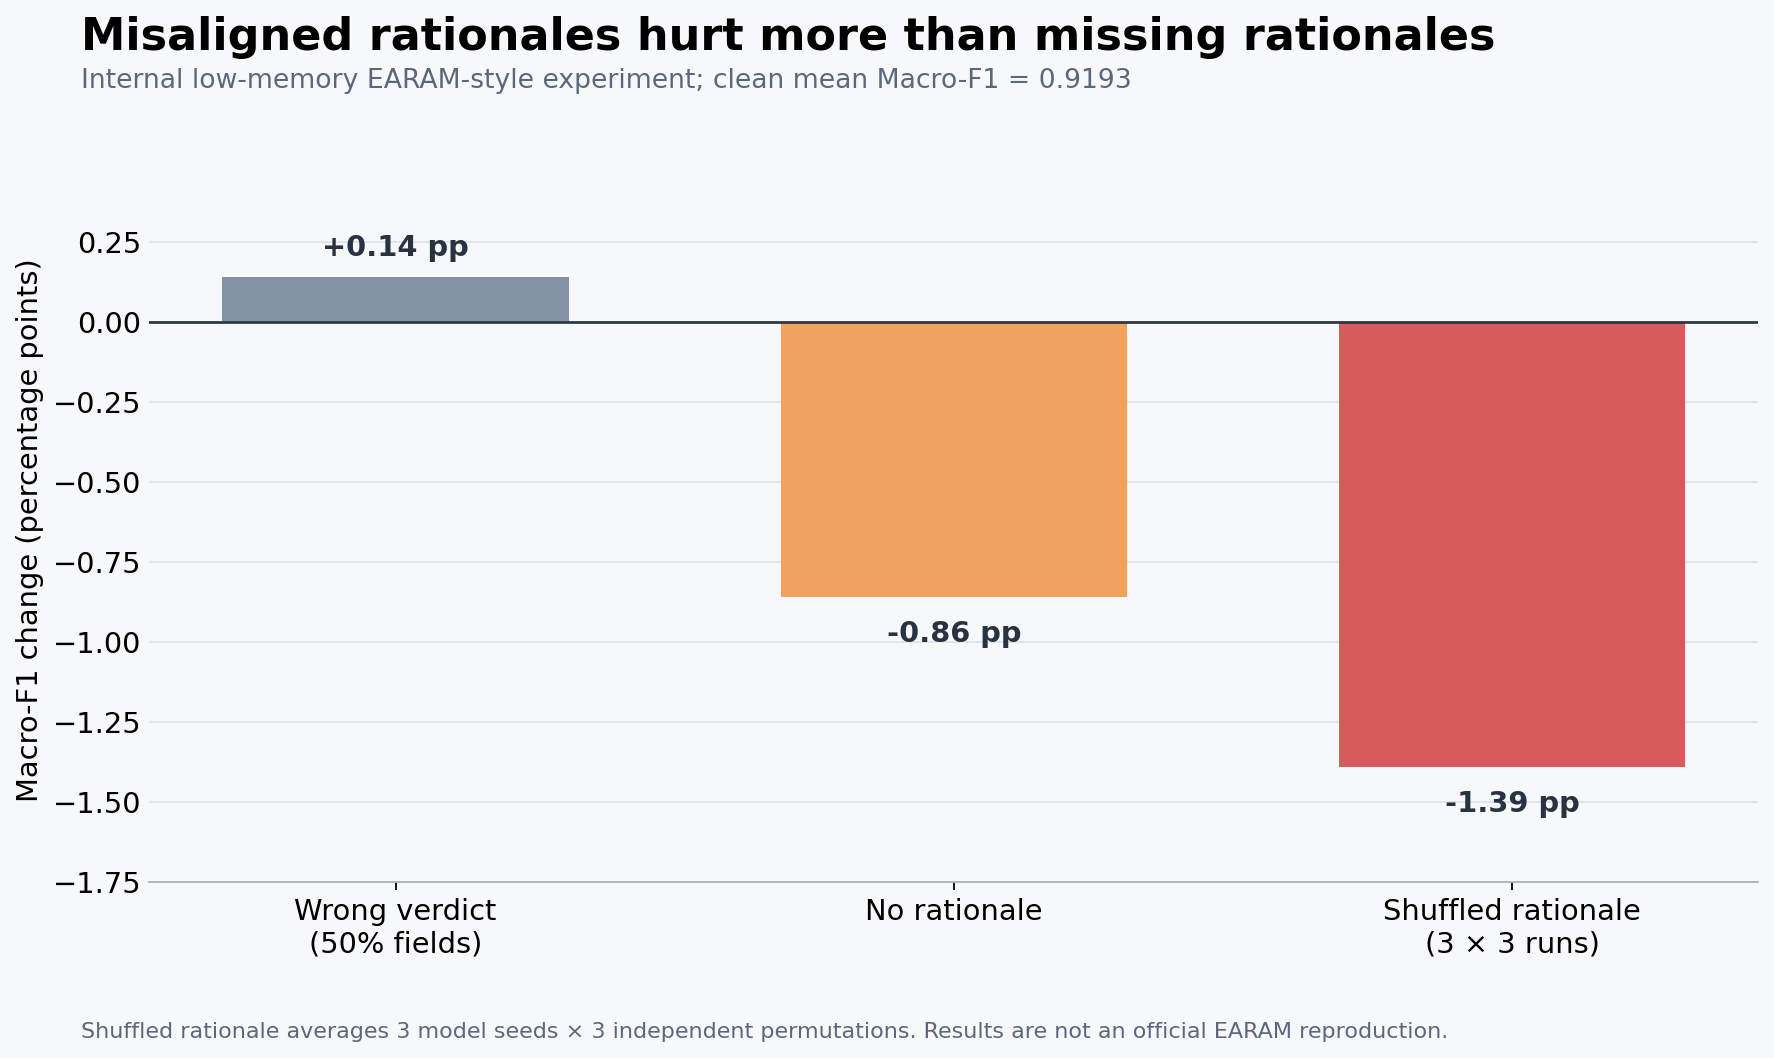
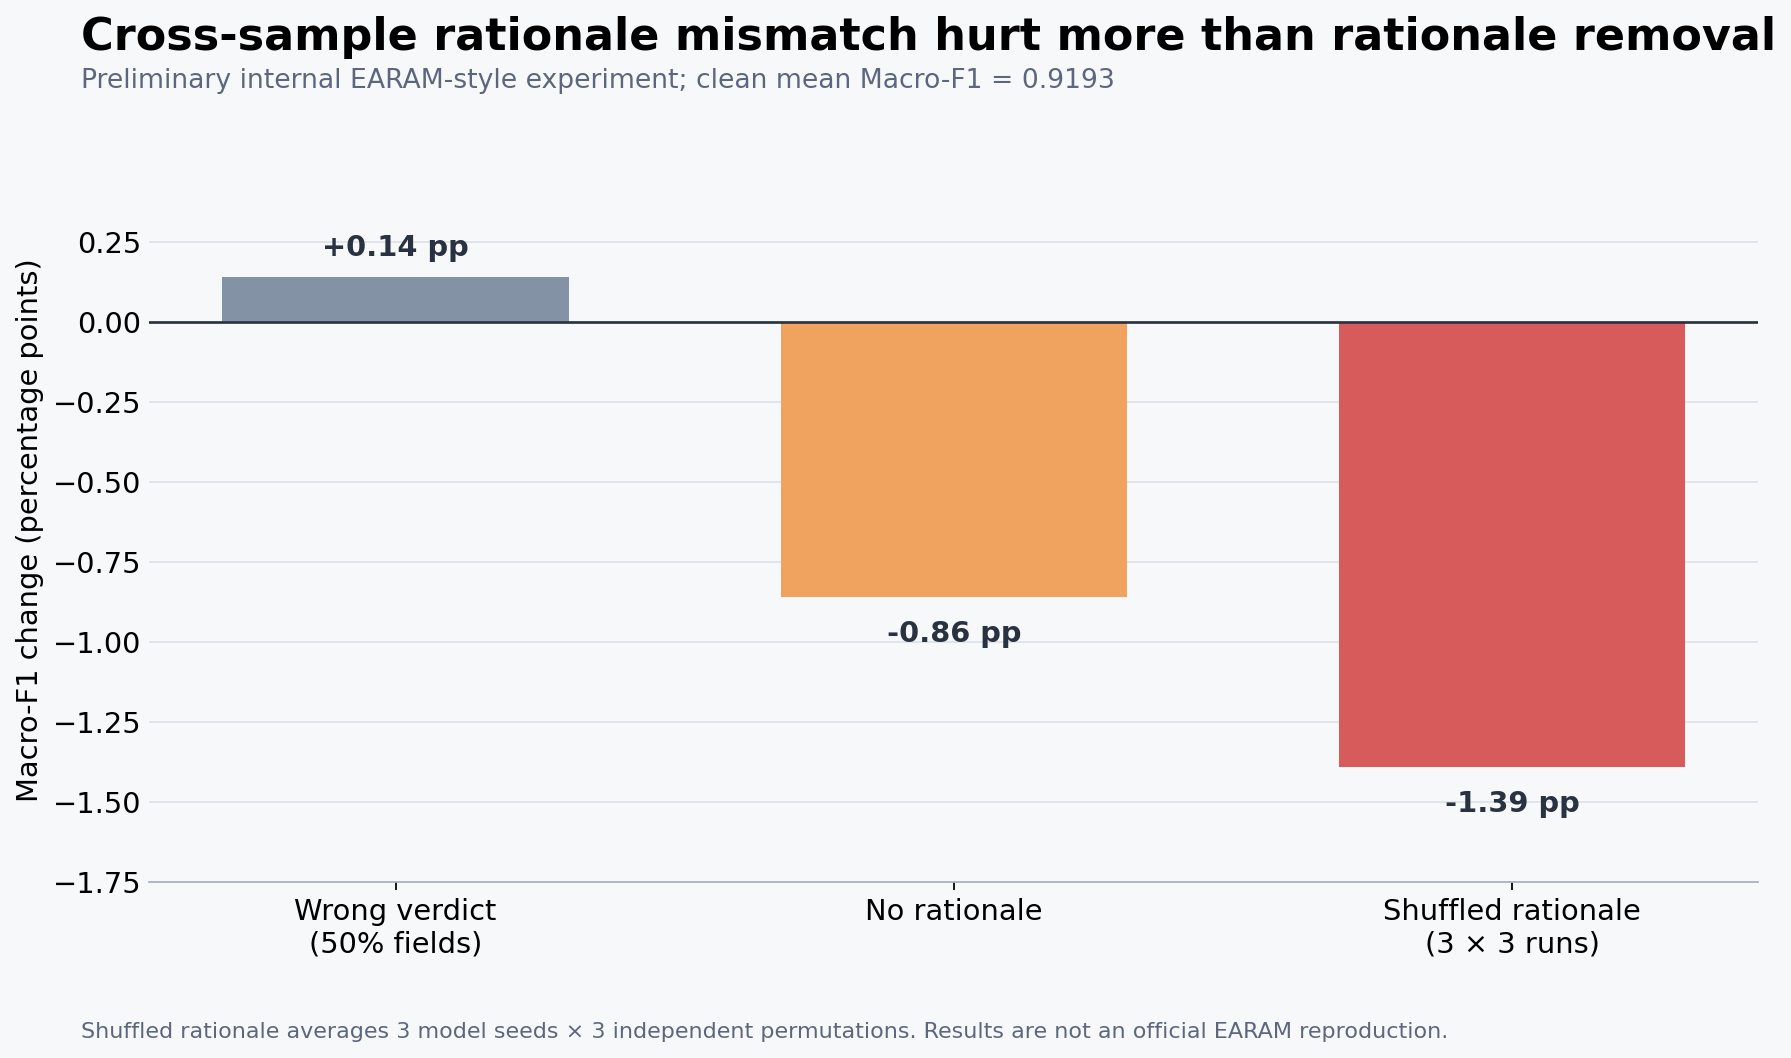
Sharpen pilot claims and document result provenance

diff --git a/scripts/generate_results_figure.py b/scripts/generate_results_figure.py
@@ -2,13 +2,24 @@
 """Generate the presentation figure for the internal rationale stress test."""
 
 from pathlib import Path
+import csv
 
 import matplotlib.pyplot as plt
 
 
 def main() -> None:
-    labels = ["Wrong verdict\n(50% fields)", "No rationale", "Shuffled rationale\n(3 × 3 runs)"]
-    changes = [0.14, -0.86, -1.39]
+    root = Path(__file__).resolve().parents[1]
+    summary = root / "docs" / "results_summary.csv"
+    with summary.open(encoding="utf-8", newline="") as handle:
+        rows = {row["condition"]: row for row in csv.DictReader(handle)}
+
+    conditions = [
+        ("Prefix oracle verdict flip 50%", "Wrong verdict\n(50% fields)"),
+        ("No rationale", "No rationale"),
+        ("Shuffled rationale 100%", "Shuffled rationale\n(3 × 3 runs)"),
+    ]
+    labels = [label for _, label in conditions]
+    changes = [100 * float(rows[name]["delta_from_clean"]) for name, _ in conditions]
     colors = ["#8492a6", "#f0a35e", "#d85b5b"]
 
     plt.rcParams.update({"font.family": "DejaVu Sans", "font.size": 13})
@@ -25,14 +36,14 @@ def main() -> None:
     fig.text(
         0.09,
         0.94,
-        "Misaligned rationales hurt more than missing rationales",
+        "Cross-sample rationale mismatch hurt more than rationale removal",
         weight="bold",
         fontsize=20,
     )
     fig.text(
         0.09,
         0.905,
-        "Internal low-memory EARAM-style experiment; clean mean Macro-F1 = 0.9193",
+        "Preliminary internal EARAM-style experiment; clean mean Macro-F1 = 0.9193",
         color="#5c677d",
         fontsize=12,
     )
@@ -62,7 +73,7 @@ def main() -> None:
     )
     fig.tight_layout(rect=(0.04, 0.07, 0.98, 0.85))
 
-    output = Path(__file__).resolve().parents[1] / "docs" / "rationale_reliability_results.png"
+    output = root / "docs" / "rationale_reliability_results.png"
     fig.savefig(output, bbox_inches="tight")
     print(output)
 

diff --git a/tests/test_toolkit.py b/tests/test_toolkit.py
@@ -1,5 +1,6 @@
 import tempfile
 import unittest
+import csv
 from pathlib import Path
 
 from earam_stress.io import export_earam, import_earam, read_lines
@@ -27,6 +28,20 @@ RECORDS = [
 
 
 class ToolkitTests(unittest.TestCase):
+    def test_pilot_summary_deltas_are_consistent(self):
+        summary = Path(__file__).resolve().parents[1] / "docs" / "results_summary.csv"
+        with summary.open(encoding="utf-8", newline="") as handle:
+            rows = list(csv.DictReader(handle))
+        self.assertEqual(len(rows), 4)
+        clean = float(rows[0]["mean_macro_f1"])
+        self.assertEqual(rows[0]["condition"], "Clean rationale")
+        for row in rows:
+            observed = float(row["mean_macro_f1"]) - clean
+            reported = float(row["delta_from_clean"])
+            # Displayed means are rounded to four decimals, while deltas were
+            # computed from the unrounded run means.
+            self.assertLessEqual(abs(observed - reported), 0.00011)
+
     def test_all_perturbations_are_deterministic_and_change_text(self):
         names = ("evidence_deletion", "conclusion_flip", "unsupported_claim", "contradiction", "irrelevant")
         for name in names:

diff --git a/README.md b/README.md
@@ -1,14 +1,29 @@
 # EARAM Rationale Reliability Stress Test
 
-A small, reproducible extension to **EARAM** (*From Predictions to Analyses: Rationale-Augmented Fake News Detection with Large Vision-Language Models*). It tests how EARAM-style detectors respond when LVLM analyses are incomplete, irrelevant, contradictory, unsupported, or end with a flipped conclusion.
+![Macro-F1 change under rationale interventions](docs/rationale_reliability_results.png)
 
-This repository does **not** claim to reproduce EARAM's published numbers. It provides the experiment harness needed to create clean/corrupted/filtered rationale files, after which the official EARAM training script can be run under each condition.
+A reproducible reliability audit of **EARAM** (*From Predictions to Analyses: Rationale-Augmented Fake News Detection with Large Vision-Language Models*). It tests how an EARAM-style detector responds when LVLM analyses are absent, assigned to the wrong sample, incomplete, irrelevant, contradictory, unsupported, or given a flipped conclusion.
+
+This repository does **not** claim to reproduce EARAM's published numbers. It contains a low-memory execution path for the released VLR architecture, a controlled rationale-intervention toolkit, and preliminary internal results on the 2,558 MR2 rows for which both released rationale files are available.
+
+## Result in 30 seconds
+
+| Fixed-checkpoint condition | Mean test Macro-F1 | Change from clean |
+|---|---:|---:|
+| Clean rationales | 0.9193 | — |
+| Incorrect verdict prepended to 50% of rationale fields | 0.9207 | +0.0014 |
+| Both rationales removed | 0.9108 | −0.0086 |
+| Rationale pairs shuffled across samples | 0.9054 | **−0.0139** |
+
+**Preliminary finding.** In this internal setup, cross-sample rationale mismatch was more damaging than removing both rationales. A short incorrect verdict did not reduce mean performance. The result is consistent with the model using a modest amount of sample-specific rationale information, and inconsistent with a simple strategy of copying one local verdict sentence.
+
+**Important boundary.** Random cross-sample shuffling can change both semantic alignment and label-associated signals. The next decisive control is **within-label shuffling**, followed by a lightweight image-caption-rationale alignment gate. Until then, the result is evidence of sensitivity to cross-sample mismatch—not proof that semantic misalignment alone caused the drop.
 
 ## Research question
 
 > How robust is rationale-augmented fake-news detection when the generated rationales are unreliable, and can a lightweight pre-filter reduce the damage?
 
-## Internal pilot result
+## Internal pilot protocol
 
 On the 2,558 public MR2 training rows, we trained three low-memory EARAM-style models on
 stratified 80/10/10 splits (seeds 13, 42, and 97), then evaluated frozen clean checkpoints under
@@ -18,11 +33,17 @@ reduced it to **0.9054** on average across three model seeds and three shuffle p
 (−0.0139). A short incorrect verdict prepended to 50% of rationale fields did not reduce mean
 Macro-F1.
 
-The bounded interpretation is that this implementation uses a modest amount of sample-aligned,
-distributed rationale information, but does not simply follow a local verdict sentence. Misaligned
-rationales were more harmful than absent rationales. These are internal EARAM-style results—not a
-reproduction of the paper's official MR2 result and not a claim about the official model generally.
-See [`docs/LUO_LAB_ONE_PAGE.md`](docs/LUO_LAB_ONE_PAGE.md) for the concise bilingual report.
+The shuffled result averages nine evaluations: three independently trained models × three shuffle
+permutations. These are internal EARAM-style results—not a reproduction of the paper's official MR2
+result and not a claim about the official model generally.
+
+Evidence and scope:
+
+- [`docs/LUO_LAB_ONE_PAGE.md`](docs/LUO_LAB_ONE_PAGE.md): concise bilingual research brief.
+- [`docs/results_summary.csv`](docs/results_summary.csv): machine-readable aggregate results.
+- [`docs/PILOT_PROVENANCE.md`](docs/PILOT_PROVENANCE.md): protocol, available evidence, and missing artifacts.
+- [`RESULTS.md`](RESULTS.md): EARAM-style pilot plus the earlier text-only feasibility diagnostic.
+- [`EARAM_REPRODUCTION_AUDIT.md`](EARAM_REPRODUCTION_AUDIT.md): public-code audit and reproduction boundary.
 
 ## What is implemented
 

diff --git a/docs/PILOT_PROVENANCE.md b/docs/PILOT_PROVENANCE.md
@@ -1,0 +1,62 @@
+# Pilot Result Provenance and Audit Status
+
+## Scope
+
+This document records exactly what can and cannot currently be audited for the preliminary
+EARAM-style fixed-checkpoint experiment. It is intended to prevent aggregate pilot results from
+being mistaken for an official EARAM reproduction or a fully archived benchmark result.
+
+## Recorded protocol
+
+- Data: 2,558 public English binary MR2 training rows with both released EARAM rationales.
+- Split: stratified 80/10/10 internal train/validation/test partitions.
+- Model seeds: 13, 42, and 97.
+- Architecture: the released EARAM `VLR` model with frozen CLIP-Large token features.
+- Hardware path: FP16 cached CLIP features on an RTX 5060 Laptop GPU with 8 GB VRAM.
+- Model selection: best validation Macro-F1; internal test evaluated after selection.
+- Intervention evaluation: the trained clean checkpoint is held fixed while rationale inputs change.
+- Shuffle evaluation: three model seeds × three independent cross-sample shuffle permutations.
+
+The portable runner defaults are 35 epochs, AdamW learning rate `2e-5`, weight decay `0.01`,
+gradient accumulation `8`, and EARAM head-loss weights `(0.7, 0.15, 0.15)`. The current aggregate
+snapshot does not preserve a machine-readable record proving that every pilot run used every
+default unchanged, so these values describe the intended protocol rather than a complete run log.
+
+## Public evidence in this snapshot
+
+- Aggregate condition means: [`results_summary.csv`](results_summary.csv).
+- Presentation figure generated from that CSV: [`rationale_reliability_results.png`](rationale_reliability_results.png).
+- Training and fixed-checkpoint evaluation implementation: [`../scripts/train_cached_earam.py`](../scripts/train_cached_earam.py).
+- Split generation and validation: [`../src/earam_stress/splits.py`](../src/earam_stress/splits.py).
+- Controlled perturbation toolkit: [`../src/earam_stress/perturb.py`](../src/earam_stress/perturb.py).
+
+## Artifacts not retained
+
+The original per-run `result.json`, prediction JSONL files, training histories, checkpoint hashes,
+package lockfile, and GPU/software metadata were not retained in this repository. The published
+means therefore cannot yet be reconstructed solely from the repository.
+
+No missing per-run values have been inferred from the means. The aggregate result should be cited
+as a **preliminary internal pilot** until a clean rerun archives the complete artifacts.
+
+## Required archive for the next run
+
+For every model seed and intervention seed, retain:
+
+1. command-line arguments and Git commit hashes for this project and the EARAM repository;
+2. Python, PyTorch, Transformers, CUDA, and GPU versions;
+3. split manifest and hashes of the two source rationale files;
+4. clean checkpoint SHA-256 and selected epoch;
+5. `result.json` and sample-level predictions with probabilities;
+6. condition generator, rate, severity, target channel, and random seed;
+7. paired bootstrap confidence intervals against the corresponding clean predictions.
+
+## Decisive next control
+
+Run **within-label rationale shuffling** before making a semantic-alignment claim. Unrestricted
+cross-sample shuffling breaks sample correspondence but may also alter label-associated signals.
+Within-label shuffling preserves the label distribution while breaking sample-level correspondence.
+
+After that control, test a lightweight image-caption-rationale alignment gate on exactly the same
+frozen checkpoints. A useful mitigation must improve the shuffled condition without materially
+reducing clean-condition performance.

diff --git a/docs/LUO_LAB_ONE_PAGE.md b/docs/LUO_LAB_ONE_PAGE.md
@@ -23,16 +23,18 @@ The shuffled result averages nine evaluations: three independently trained model
 independent rationale permutations. Mean drops for shuffle seeds 13, 42, and 97 were 0.0116,
 0.0129, and 0.0173 respectively.
 
-**Finding.** Sample-aligned rationales provide a modest but repeatable signal. Unrelated rationales
-are more harmful than no rationales, suggesting that incorrect analysis can weakly mislead the
-detector. However, a short explicit incorrect verdict did not reduce performance, so the model does
-not appear to simply copy a local conclusion; it may rely on distributed semantic features or
-attenuate the rationale branch during fusion.
+**Finding.** Cross-sample rationale mismatch is more harmful than removing the rationales entirely,
+suggesting that mismatched analysis can weakly mislead the detector. However, a short explicit
+incorrect verdict did not reduce performance, so the model does not appear to simply copy a local
+conclusion. One possible explanation is that it relies on distributed semantic features or
+attenuates the rationale branch during fusion. Because unrestricted shuffling may also alter label-associated signals, within-label
+shuffling is required before attributing the drop specifically to semantic misalignment.
 
 **Boundary.** This is a low-memory EARAM-style internal experiment. It is not an official-score
 reproduction: the public repository lacks the second official MR2 test rationale, and our split and
-cached-feature execution differ from the paper's evaluation. The result should be presented as a
-reproducible diagnostic, not as a general defect of EARAM.
+cached-feature execution differ from the paper's evaluation. This snapshot publishes the aggregate
+metrics and protocol, but the original per-run prediction files were not retained in the repository;
+the finding therefore remains preliminary until the runs are archived and independently audited.
 
 ## 中文摘要
 
@@ -47,9 +49,11 @@ reproducible diagnostic, not as a general defect of EARAM.
 rationale 随机分配给错误样本后，在 3 个模型种子 × 3 个 shuffle 种子的九次评估中平均下降
 0.0139。相比之下，向 50% rationale 开头加入与真实标签相反的短 verdict 并未降低平均性能。
 
-**结论。** 样本级语义对齐的 rationale 提供了较弱但可重复的有效信号；完整的错配分析比
-完全缺失更有害，说明错误 rationale 能轻微主动误导模型。但模型并不会简单服从一条局部
-verdict，更可能使用分布式语义特征，或在融合时降低 rationale 分支的权重。
+**结论。** 跨样本错配的 rationale 比完全缺失更有害，说明错配分析能轻微主动误导模型。
+这个结果不符合“模型只服从一条局部 verdict”的简单解释；一种可能是模型使用分布式语义
+特征，或在融合时降低 rationale 分支的权重。由于不受限的随机打乱也可能改变标签相关信号，还需要同标签内部
+shuffle，才能把下降进一步归因于语义错配本身。
 
 **边界。** 这是内部低显存 EARAM-style 实验，不是论文官方结果复现，也不能扩展为对官方
-EARAM 模型的一般性结论。
+EARAM 模型的一般性结论。当前仓库公开了汇总指标和实验协议，但最初的逐次预测文件没有
+保留在仓库中，因此该发现应视为 preliminary，待重新归档运行结果后再接受独立审计。

diff --git a/RESULTS.md b/RESULTS.md
@@ -1,4 +1,30 @@
-# Initial Results
+# Results
+
+## EARAM-style fixed-checkpoint pilot
+
+Three low-memory EARAM-style models were trained on stratified 80/10/10 splits of the 2,558 MR2
+rows for which both released rationales are available. Model seeds were 13, 42, and 97. CLIP-Large
+was frozen and its token features were cached in FP16 so that the released VLR architecture could
+run on an RTX 5060 Laptop GPU with 8 GB VRAM.
+
+| Condition | Mean test Macro-F1 | Change from clean |
+|---|---:|---:|
+| Clean rationales | 0.9193 | — |
+| Incorrect verdict prepended to 50% of rationale fields | 0.9207 | +0.0014 |
+| Both rationales removed | 0.9108 | −0.0086 |
+| Rationale pairs shuffled across samples | 0.9054 | −0.0139 |
+
+Every intervention was evaluated with the corresponding clean checkpoint fixed. The shuffled
+mean covers three model seeds × three independent permutations. The result supports a narrow claim:
+this implementation is sensitive to cross-sample rationale mismatch, and mismatch was more harmful
+than absence in the pilot. It does not yet isolate semantic misalignment from label-associated
+signals; within-label shuffling is the next required control.
+
+The original per-run outputs were not retained in this repository. See
+[`docs/PILOT_PROVENANCE.md`](docs/PILOT_PROVENANCE.md) for the audit status and required rerun
+archive. These values are preliminary internal results, not official EARAM reproduction numbers.
+
+## Earlier text-only feasibility diagnostic
 
 ## Status
 
@@ -58,18 +84,19 @@ errors.
 
 1. `MR2_en_test_analysis_2.txt` is required by the data loader but absent from the repository.
 2. `utils.py` hard-codes `cuda:3` and an author-local CLIP checkpoint path.
-3. The current environment has no CUDA device, PyTorch, or Transformers installation.
+3. The released training code requires portability changes for commodity GPUs and reproducible
+   validation-based checkpoint selection.
 
 A faithful EARAM result must wait for the missing second test rationale and a CLIP-capable GPU. It
 would be misleading to duplicate rationale 1 and call that a reproduction.
 
 The implemented continuation avoids the missing file by creating internal stratified 80/10/10
-splits from the 2,558 complete rows for seeds 13, 42, and 97. This enables an independent EARAM-style
-experiment but does not remove the GPU requirement.
+splits from the 2,558 complete rows for seeds 13, 42, and 97. That independent EARAM-style GPU
+experiment is reported at the top of this file; it remains distinct from the paper's official split.
 
-## Next experiment
+## Next experiment after the text-only diagnostic
 
-On a GPU machine, freeze the official clean EARAM checkpoint and evaluate the same perturbation
-matrix without retraining. Prioritize irrelevant-rationale replacement and evidence deletion. Add a
+Using the already implemented fixed-checkpoint path, prioritize within-label rationale shuffling,
+single-channel versus dual-channel corruption, and paired confidence intervals. Then add a
 cross-modal reliability head that scores each rationale against both CLIP image tokens and caption
 tokens, and compare it against the two failed text-only filters here.
